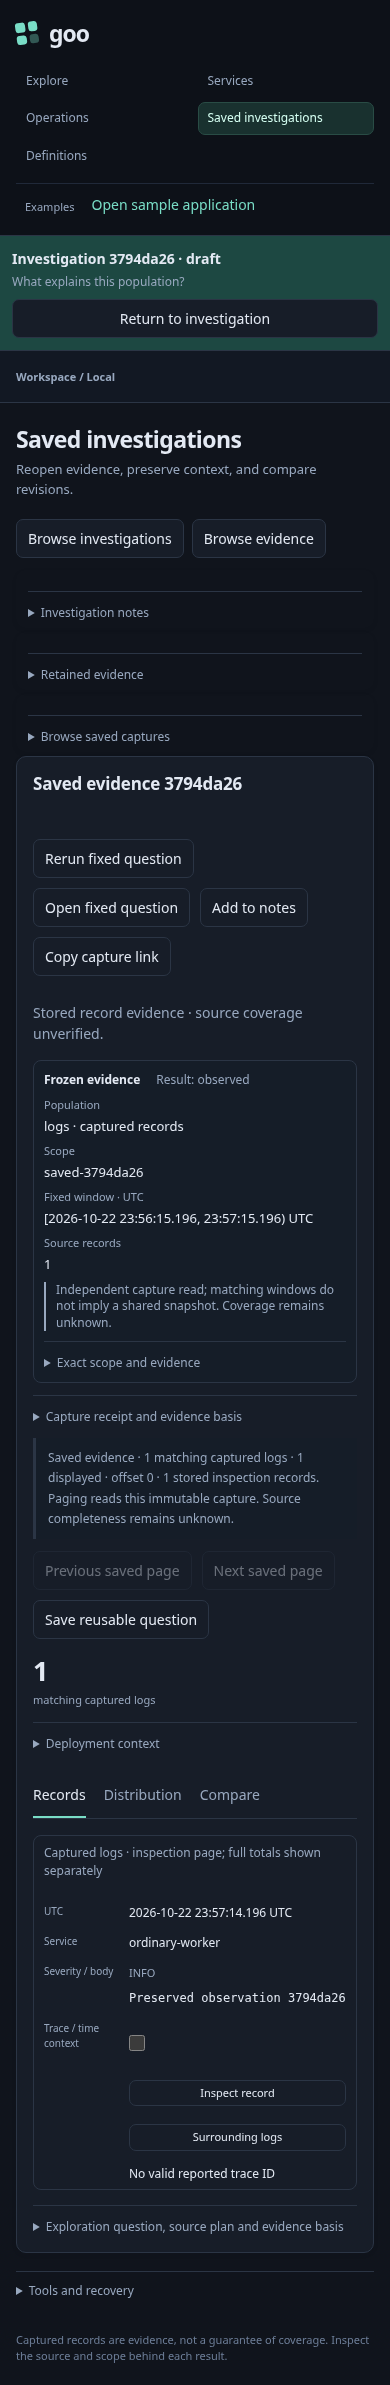
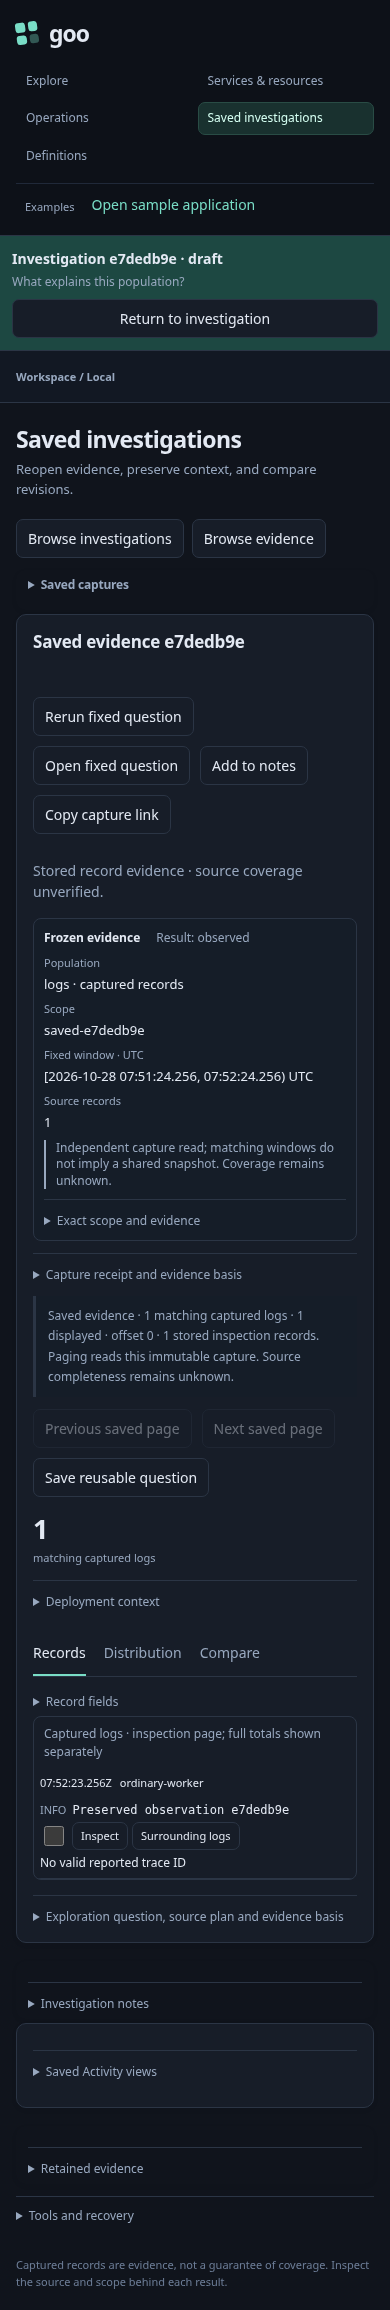
Put compact stored capture rows first in Saved

diff --git a/ui/index.html b/ui/index.html
@@ -11,8 +11,8 @@
 <div class="workspace-panel" data-workspace-panel="services" hidden><div class="resource-tabs" role="tablist" aria-label="Observed entities"><button id="entitiesServices" role="tab" aria-selected="true">Services</button><button id="entitiesHosts" role="tab" aria-selected="false">Hosts</button><button id="entitiesKubernetes" role="tab" aria-selected="false">Kubernetes</button></div><div id="serviceEntityPanel"><section id="serviceInventory"></section></div><section id="hostEntityPanel" hidden></section><section id="kubernetesEntityPanel" hidden></section></div>
 <div class="workspace-panel" data-workspace-panel="operations" hidden><div id="liveEvidenceHost"><section id="operations"><h2>Application operations</h2><p>Choose an application-owned package and compare its declared operations with completed spans. Calls count invocations, including retries; business-subject outcomes need a separate contract.</p><p class="operation-sample-links">Try the <a href="http://localhost:8090">woven Go checkout sample :8090</a>, or the <a href="http://localhost:8091">report generator :8091</a>, then inspect its evidence.</p><label>Operation package<select id="operationPackage"><option value="">Default package</option></select></label><h3 id="operationPackageTitle"></h3><div class="controls"><button id="runOperations">Inspect operations</button><button id="captureSave" title="Recapture the selected fixed window and store its evidence">Save investigation</button></div><p id="operationStatus" role="status"></p><p id="operationMode" class="evidence-note">No operation evidence loaded.</p><div id="operationView"></div><details id="fleetCoverageView" hidden></details><details id="errorRatioView" hidden></details><details id="counterRateView" hidden></details><details id="histogramView" hidden></details><div id="operationExplorer"></div><details><summary>Operation binding and evidence basis</summary><pre id="operationExplain"></pre></details></section>
 </div></div>
-<div class="workspace-panel saved-workspace" data-workspace-panel="investigations" hidden><div class="saved-task-actions controls" aria-label="Saved work"><button data-saved-open="investigations">Browse investigations</button><button data-saved-open="evidence">Browse evidence</button><button id="savedRecoveryNotice" hidden></button></div><section id="investigationDocuments"></section><section id="savedActivityViews"></section><section id="savedRetainedCatalog"></section><section id="captureLibrary"><details id="captureLibraryPanel" open><summary>Browse saved captures</summary><h2>Investigation captures</h2><p>Reopen the same evidence or refresh a fixed question into a new revision.</p><button id="captureCatalogRefresh">Refresh capture list</button><details id="captureIDTools" class="saved-id-tools"><summary>Open a capture by ID</summary><div class="controls"><label>General capture ID<input id="captureGeneralID" size="32"></label><button id="captureGeneralOpen">Open general capture</button></div></details><p id="captureLibraryStatus" role="status">Capture an Explore question or service inventory to preserve its evidence.</p><div id="captureCatalog" class="capture-catalog"></div><div class="controls"><button id="captureCatalogPrevious" disabled>Previous captures</button><button id="captureCatalogNext" disabled>More captures</button></div></details></section><section id="generalCaptureWorkspace" hidden><div class="section-heading"><div><span class="source-tag">Saved evidence</span><h2 id="captureSavedTitle"></h2></div><div class="controls"><button id="captureGeneralRefresh" disabled>Rerun fixed question</button><button id="captureGeneralLive" disabled>Explore fixed question</button><button id="captureGeneralNotes" disabled>Add to notes</button><button id="captureGeneralLink" disabled>Copy capture link</button><button id="captureGeneralParent" hidden>Previous revision</button></div></div><p id="captureSavedStatus" role="status"></p><p id="captureFixedScope" class="muted"></p><details><summary>Capture receipt and evidence basis</summary><pre id="captureGeneralReceipt"></pre></details><div id="captureExploreEvidence" hidden></div><div id="captureInventoryEvidence" hidden></div><div id="captureMeasurementEvidence" hidden></div><div id="captureComparisonEvidence" hidden></div></section>
-<section id="savedRetainedWorkspace"></section><details id="savedTools" class="saved-tools"><summary>Tools and recovery</summary><section id="savedAnnotations"></section><section id="savedRecovery"></section><details id="savedOperationTools"><summary>Open an operation capture by ID</summary><div class="controls"><label>Capture ID<input id="captureID" size="36" aria-label="Capture ID"></label><button id="captureOpen">Reopen saved investigation</button></div><p id="savedOperationOpenStatus" role="status"></p></details></details>
+<div class="workspace-panel saved-workspace" data-workspace-panel="investigations" hidden><div class="saved-task-actions controls" aria-label="Saved work"><button data-saved-open="investigations">Browse investigations</button><button data-saved-open="evidence">Browse evidence</button><button id="savedRecoveryNotice" hidden></button></div><section id="captureLibrary"><details id="captureLibraryPanel" open><summary><h2>Saved captures</h2></summary><div class="capture-catalog-toolbar controls"><button id="captureCatalogRefresh">Refresh capture list</button><p id="captureLibraryStatus" role="status">Capture an Explore question or service inventory to preserve its evidence.</p></div><div id="captureCatalog" class="capture-catalog"></div><div class="controls"><button id="captureCatalogPrevious" disabled>Previous captures</button><button id="captureCatalogNext" disabled>More captures</button></div><details id="captureIDTools" class="saved-id-tools"><summary>Open a capture by ID</summary><div class="controls"><label>General capture ID<input id="captureGeneralID" size="32"></label><button id="captureGeneralOpen">Open general capture</button></div></details></details></section><section id="generalCaptureWorkspace" hidden><div class="section-heading"><div><span class="source-tag">Saved evidence</span><h2 id="captureSavedTitle"></h2></div><div class="controls"><button id="captureGeneralRefresh" disabled>Rerun fixed question</button><button id="captureGeneralLive" disabled>Explore fixed question</button><button id="captureGeneralNotes" disabled>Add to notes</button><button id="captureGeneralLink" disabled>Copy capture link</button><button id="captureGeneralParent" hidden>Previous revision</button></div></div><p id="captureSavedStatus" role="status"></p><p id="captureFixedScope" class="muted"></p><details><summary>Capture receipt and evidence basis</summary><pre id="captureGeneralReceipt"></pre></details><div id="captureExploreEvidence" hidden></div><div id="captureInventoryEvidence" hidden></div><div id="captureMeasurementEvidence" hidden></div><div id="captureComparisonEvidence" hidden></div></section>
+<section id="investigationDocuments"></section><section id="savedActivityViews"></section><section id="savedRetainedCatalog"></section><section id="savedRetainedWorkspace"></section><details id="savedTools" class="saved-tools"><summary>Tools and recovery</summary><section id="savedAnnotations"></section><section id="savedRecovery"></section><details id="savedOperationTools"><summary>Open an operation capture by ID</summary><div class="controls"><label>Capture ID<input id="captureID" size="36" aria-label="Capture ID"></label><button id="captureOpen">Reopen saved investigation</button></div><p id="savedOperationOpenStatus" role="status"></p></details></details>
 <section id="savedInvestigations" hidden><h2>Selected operation capture</h2><p>Open a capture to continue an investigation with the same evidence. Refresh creates a new revision and keeps the original available.</p><div class="controls"><button id="captureRefresh" disabled>Refresh saved evidence</button></div><p id="captureStatus" role="status">Open a capture by ID, or save one from Operations. Captures are stored in this local workspace.</p><details><summary>Saved receipt and component bases</summary><pre id="captureReceipt"></pre></details><details id="captureDiff"><summary>Revision comparison</summary><p id="captureComparisonSummary"></p><pre id="captureComparison"></pre></details></section><section id="savedOperationEvidence" hidden aria-label="Saved operation evidence"><div class="section-heading"><h2 id="saved-operationPackageTitle"></h2><button id="savedOperationLive">Open live Operations</button></div><p id="saved-operationMode" class="evidence-note"></p><p class="muted">Inspect this stored selection without reading telemetry. Live Operations keeps its own package, lookback and selection; opening it does not run a query.</p><div id="saved-operationView"></div><details id="saved-fleetCoverageView" hidden></details><details id="saved-errorRatioView" hidden></details><details id="saved-counterRateView" hidden></details><details id="saved-histogramView" hidden></details><div id="saved-operationExplorer"></div><details><summary>Operation binding and evidence basis</summary><pre id="saved-operationExplain"></pre></details></section></div>
 <div class="workspace-panel" data-workspace-panel="definitions" hidden><section id="telemetryPackages"></section><section><h2>Measurement packages</h2><p>Define gauges, counters, native histograms and lifecycle event bindings in YAML. Preview a source plan, save an immutable revision, and reuse it with a fresh or fixed window.</p><div class="controls"><label>Find a measurement<input id="measurementDefinitionSearch" type="search" placeholder="Name, service, kind or environment"></label><button id="measurementDefinitionRefresh">Refresh packages</button><button id="defineMeasurement">Open measurement workbench</button></div><p id="measurementDefinitionStatus" role="status"></p><div id="measurementDefinitions" class="definition-grid"></div></section><section><h2>Application definitions</h2><p>Shared contracts connect instrumentation, measures, and investigation views.</p><div id="definitionCatalog" class="definition-grid"></div></section><section id="httpPackage"><h2>Bound HTTP package · Go</h2><p>Evaluate observed HTTP server spans using the shared package binding and view descriptor. Sampling and completeness remain unverified.</p><button id="runHttpPackage">Evaluate HTTP package</button><p id="httpPackageStatus" role="status"></p><div id="httpPackageView"></div><details><summary>HTTP package source, revision and diagnostics</summary><pre id="httpPackageExplain"></pre></details></section>
 <details><summary>OTel prebuilt library · capability proposals</summary><p>Versioned contract recognition in Go; most views below are proposals, not installed dashboards. Missing evidence or bindings must be resolved before use.</p><div id="prebuilts"></div></details>

diff --git a/journeys/220-saved-catalog.spec.js b/journeys/220-saved-catalog.spec.js
@@ -1,0 +1,50 @@
+const {test,expect}=require('@playwright/test');
+const {randomBytes}=require('node:crypto');
+const {startBombadil}=require('./support/cross-app');
+const fs=require('node:fs/promises'),path=require('node:path'),os=require('node:os');
+const base='http://127.0.0.1:8088';
+test.use({actionTimeout:15000,navigationTimeout:45000});
+test('220 Saved opens with compact stored rows, exact UTC, unchanged paging and source-free evidence',async({page,request})=>{
+ let response=await request.get(base+'/api/captures');expect(response.ok()).toBe(true);let catalog=await response.json();
+ if(!catalog.items.length){
+  const toMs=Date.now();const created=await request.post(base+'/api/captures',{data:{title:'Saved catalog fixture',question:{kind:'explore',explore:{signal:'logs',environment:'saved-catalog-'+randomBytes(4).toString('hex'),fromMs:toMs-60000,toMs,limit:10,offset:0}}}});expect(created.status()).toBe(201);
+  catalog=await(await request.get(base+'/api/captures')).json();
+ }
+ let selected,original;
+ for(const receipt of catalog.items){const r=await request.get(base+'/api/captures/'+receipt.id);if(r.ok()){selected=receipt;original=await r.json();break}}
+ expect(selected,'a valid stored receipt is available').toBeTruthy();
+ const source=[],errors=[];page.on('pageerror',e=>errors.push(e.message));page.on('request',r=>{const path=new URL(r.url()).pathname;if(['/api/tail','/api/explore','/api/measurements','/api/inventory','/api/discovery','/api/query','/api/operations','/api/counter-rates','/api/histograms','/api/http-package'].includes(path))source.push(path)});
+ await page.goto(base+'/#investigations');const rows=page.locator('#captureCatalog tbody>tr');await expect(rows).toHaveCount(catalog.items.length);
+ expect(await rows.evaluateAll(nodes=>nodes.map(n=>n.dataset.captureId))).toEqual(catalog.items.map(r=>r.id));
+ expect((await rows.first().boundingBox()).y).toBeLessThan(400);
+ const row=page.locator('#captureCatalog tr[data-capture-id="'+selected.id+'"]');const time=row.locator('time');
+ await expect(time).toHaveAttribute('datetime',selected.capturedAt);await expect(time).toHaveAttribute('title','Captured at '+selected.capturedAt);await expect(time).toContainText('UTC');
+ await time.focus();await expect(time).toBeFocused();
+ await page.screenshot({path:'docs/journeys/screenshots/220a-saved-catalog-desktop.png',fullPage:false});
+ const open=page.waitForResponse(r=>new URL(r.url()).pathname==='/api/captures/'+selected.id);
+ await row.getByRole('button').focus();await page.keyboard.press('Enter');expect((await open).status()).toBe(200);
+ await expect(page.locator('#captureSavedTitle')).toHaveText(selected.title);expect(source).toEqual([]);
+ const receipt=await page.locator('#captureGeneralReceipt').textContent();
+ await page.getByRole('button',{name:'Browse evidence',exact:true}).click();
+ if(catalog.hasMore){
+  const next=page.waitForResponse(r=>new URL(r.url()).pathname==='/api/captures'&&new URL(r.url()).searchParams.has('cursor'));
+  await page.locator('#captureCatalogNext').click();const second=await(await next).json();
+  await expect(rows).toHaveCount(second.items.length);expect(await rows.evaluateAll(nodes=>nodes.map(n=>n.dataset.captureId))).toEqual(second.items.map(r=>r.id));
+  const previous=page.waitForResponse(r=>new URL(r.url()).pathname==='/api/captures'&&!new URL(r.url()).search);
+  await page.locator('#captureCatalogPrevious').click();await previous;await expect(rows).toHaveCount(catalog.items.length);
+  expect(await rows.evaluateAll(nodes=>nodes.map(n=>n.dataset.captureId))).toEqual(catalog.items.map(r=>r.id));
+ }
+ expect(await page.locator('#captureGeneralReceipt').textContent()).toBe(receipt);expect(source).toEqual([]);
+ expect((await(await request.get(base+'/api/captures/'+selected.id)).json()).receipt).toEqual(original.receipt);
+ await page.goto(base+'/#investigations');await expect(rows).toHaveCount(catalog.items.length);
+ for(const width of [320,390,700,701]){await page.setViewportSize({width,height:844});expect(await page.evaluate(()=>document.documentElement.scrollWidth<=innerWidth)).toBe(true)}
+ await page.setViewportSize({width:390,height:844});await page.locator('.saved-workspace').screenshot({path:'docs/journeys/screenshots/220b-saved-catalog-mobile.png'});
+ await page.locator('#captureIDTools>summary').click();await expect(page.locator('#captureGeneralID')).toBeVisible();expect(source).toEqual([]);expect(errors).toEqual([]);
+});
+
+test('220 Bombadil browses stored rows and recovery tools without source reads',async()=>{
+ test.skip(process.env.GOO_SAVED_CATALOG_BOMBADIL!=='1','Opt-in bounded stored-page campaign');
+ const dir=await fs.mkdtemp(path.join(os.tmpdir(),'goo-saved-catalog-'));
+ const actor=await startBombadil({dir:path.join(dir,'bombadil'),url:base+'/#investigations',specification:'verification/bombadil/saved-catalog.ts',seconds:20,width:390,height:844});
+ let passed=false;try{await actor.finish();passed=true}finally{await actor.stop();if(passed)await fs.rm(dir,{recursive:true,force:true})}
+});

diff --git a/ui/product.css b/ui/product.css
@@ -891,7 +891,9 @@ td details {
  .inventory-table button{min-height:40px}
 }
 
-.capture-catalog{display:grid;grid-template-columns:repeat(auto-fit,minmax(240px,1fr));gap:10px;margin:14px 0}.capture-card{background:var(--surface-raised);border:1px solid var(--border);border-radius:9px;padding:13px}.capture-card button{font-weight:600;text-align:left;overflow-wrap:anywhere;max-width:100%}.capture-card p{font-size:12px;margin:8px 0 0}.capture-catalog:empty{display:none}#generalCaptureWorkspace>details{margin:12px 0}#captureDialog{color:var(--ink);background:var(--surface);border:1px solid var(--border);border-radius:12px;width:min(560px,90vw);padding:24px}#captureDialog::backdrop{background:#070b12b8}#captureDialog label{display:grid;gap:6px}#captureDialog input{width:100%}#generalCaptureWorkspace>.section-heading{align-items:flex-start;flex-wrap:wrap}#generalCaptureWorkspace>.section-heading .controls{flex-wrap:wrap}#captureGeneralReceipt{max-height:300px;overflow:auto}
+.capture-catalog{margin:10px 0}.capture-catalog>goo-table{max-height:420px}.capture-catalog>goo-table>table{table-layout:fixed}.capture-catalog th[data-capture-col=title]{width:46%}.capture-catalog th[data-capture-col=kind]{width:22%}.capture-catalog td{font-size:12px;overflow-wrap:anywhere}.capture-catalog td>button{max-width:100%;text-align:left;overflow-wrap:anywhere;padding:4px 6px;font-size:12px}.capture-catalog time{font-size:12px;overflow-wrap:anywhere}.saved-workspace #captureLibraryPanel>summary>h2{display:inline;font:inherit;font-weight:600;margin:0}.saved-workspace #captureLibraryPanel>summary{margin-bottom:10px}.saved-workspace #captureLibraryPanel{border:0;margin:0;padding:0}.capture-catalog-toolbar{align-items:center;margin:8px 0}.capture-catalog-toolbar>p{margin:0;font-size:12px;color:var(--muted)}
+@media(max-width:700px){.capture-catalog>goo-table>table{display:block}.capture-catalog table>caption{display:block}.capture-catalog table>thead{position:absolute;width:1px;height:1px;overflow:hidden;clip-path:inset(50%)}.capture-catalog table>tbody{display:block}.capture-catalog table>tbody>tr{display:grid;grid-template-columns:minmax(0,1fr) minmax(0,2fr);gap:3px 8px;padding:8px;border-bottom:1px solid var(--border)}.capture-catalog table>tbody>tr>td{display:block;padding:0;border:0;min-width:0}.capture-catalog td[data-capture-col=title]{grid-column:1/-1}.capture-catalog td[data-capture-col=at]{text-align:right}.capture-catalog td>button{min-height:28px}.capture-catalog time{font-size:11px}}
+.capture-card{background:var(--surface-raised);border:1px solid var(--border);border-radius:9px;padding:13px}.capture-card button{font-weight:600;text-align:left;overflow-wrap:anywhere;max-width:100%}.capture-card p{font-size:12px;margin:8px 0 0}.capture-catalog:empty{display:none}#generalCaptureWorkspace>details{margin:12px 0}#captureDialog{color:var(--ink);background:var(--surface);border:1px solid var(--border);border-radius:12px;width:min(560px,90vw);padding:24px}#captureDialog::backdrop{background:#070b12b8}#captureDialog label{display:grid;gap:6px}#captureDialog input{width:100%}#generalCaptureWorkspace>.section-heading{align-items:flex-start;flex-wrap:wrap}#generalCaptureWorkspace>.section-heading .controls{flex-wrap:wrap}#captureGeneralReceipt{max-height:300px;overflow:auto}
 
 .span-summary-control {display:flex;align-items:center;gap:.6rem;grid-column:1/-1;flex-direction:row;}
 .span-summary-control input {width:auto;}

diff --git a/verification/bombadil/saved-catalog.ts b/verification/bombadil/saved-catalog.ts
@@ -1,0 +1,30 @@
+// Stored-page navigation only; never recaptures, refreshes telemetry or writes.
+import {always,eventually} from '@antithesishq/bombadil';
+import {extract,actions,registerCustomAction} from '@antithesishq/bombadil/browser';
+export {noUncaughtExceptions,noUnhandledPromiseRejections} from '@antithesishq/bombadil/browser/defaults/properties';
+const state=extract(({document,window})=>({
+ stage:Number(document.documentElement.dataset.savedCatalogStage||0),
+ rows:document.querySelectorAll('#captureCatalog tbody>tr').length,
+ selected:!!document.querySelector('#generalCaptureWorkspace:not([hidden])'),
+ failed:document.querySelector('#captureSavedStatus')?.textContent?.startsWith('Capture unavailable')||false,
+ overflow:document.documentElement.scrollWidth>window.innerWidth,
+ source:window.performance.getEntriesByType('resource').filter(e=>/^\/api\/(?:tail|explore|query|measurements|inventory|discovery|operations|counter-rates|histograms|http-package)$/.test(new URL(e.name).pathname)).length,
+ typed:[...document.querySelectorAll('#captureCatalog tbody>tr')].every(row=>/^[a-f0-9]{64}$/.test((row as HTMLElement).dataset.captureId||'')&&row.querySelectorAll('td').length===3&&!!row.querySelector('[data-capture-col=kind]')?.textContent),
+ clocks:[...document.querySelectorAll<HTMLTimeElement>('#captureCatalog time')].every(e=>e.textContent?.includes('UTC')&&Number.isFinite(Date.parse(e.dateTime))&&e.title==='Captured at '+e.dateTime),
+}));
+export const storedOnly=always(()=>state.current.source===0);
+export const compactTypedRows=always(()=>!state.current.overflow&&state.current.typed&&state.current.clocks);
+export const completes=eventually(()=>state.current.stage===7).within(20,'seconds');
+const act=registerCustomAction('goo.savedCatalog',async(document,_window,step:number)=>{
+ if(step===1)document.querySelector<HTMLButtonElement>('#captureCatalog tbody>tr button')!.click();
+ if(step===2)document.querySelector<HTMLButtonElement>('[data-saved-open=evidence]')!.click();
+ if(step===3)document.querySelector<HTMLElement>('#captureIDTools>summary')!.click();
+ if(step===4)document.querySelector<HTMLInputElement>('#captureGeneralID')!.focus();
+ if(step===5)document.querySelector<HTMLElement>('#captureIDTools>summary')!.click();
+ if(step===6)document.querySelector<HTMLElement>('#captureLibraryPanel>summary')!.click();
+ if(step===7)document.querySelector<HTMLElement>('#captureLibraryPanel>summary')!.click();
+ document.documentElement.dataset.savedCatalogStage=String(step);
+});
+export const choices=actions(()=>{
+ const s=state.current;if(!s.rows)return ['Wait'];if(s.stage===1&&!s.selected&&!s.failed)return ['Wait'];return s.stage<7?[act(s.stage+1)]:['Wait'];
+});

diff --git a/docs/ROADMAP_2026_10_28.md b/docs/ROADMAP_2026_10_28.md
@@ -32,14 +32,17 @@ support, complete service health or a replacement for ClickStack ingestion.
 | R1 — delivered (217) | Stop legacy operation/HTTP source work when its owner is left, superseded or changed. Extend the existing decoded JSON transport to admitted GETs; preserve sequential package/revision checks and saved publication. | Real delayed response/body after workspace change starts no hidden rates/histogram reads and renders no late data. Query cancellation reaches its matching ID, capacity releases, retries work, and normal operation/native results still render. Add regression tests and the relevant Bombadil action/invariant. |
 | R2 — delivered (218) | Reduce repeated severity/message/action rows through shared record-summary/table styles and semantics. Apply to real compact live/fixed contexts without hiding necessary actions or exact time/details. | Desktop/mobile real-data frames; short rows materially denser; long values inspectable; keyboard/touch actions and narrow layout work. Shared component tests and live interaction/Bombadil checks stay current. No source/saved-result change. |
 | R3 — delivered first slice (219) | Remove duplicate configuration/catalog reads and unnecessary hidden-surface work demonstrated by a before/after request/DOM profile. Start with one catalog owner pair; keep explicit refresh and invalidation. | Fewer duplicate requests without suppressing required refresh, changing query scope or breaking direct links. Compare the same local task; make only measured claims. No mandatory bundler/framework or generic global data cache. |
-| R4 — next: Saved and Definitions entrance | Simplify stacked entrance controls and improve kind/scope/origin discovery using the existing catalog/list primitives. | Recent/useful items appear early; search/filter/pagination and source-free reopen remain exact. Similar titles do not merge different identities. Preserve drafts, publication retries and all saved volumes. |
+| R4 — Saved slice delivered (220); Definitions next | Simplify stacked entrance controls and improve kind/scope/origin discovery using the existing catalog/list primitives. | Stored items appear early in established store order; search/filter/pagination and source-free reopen remain exact. Similar titles do not merge different identities. Preserve drafts, publication retries and all saved volumes. |
 | R5 — operational question clarity | Unify scope/window/return presentation between Activity, service/resource defaults and supporting records. Add an optional query-cost/failure inspector only with actual source diagnostics. | One end-to-end service/resource investigation preserves selected identity, unit, fixed/rolling window and return state; empty, refused, stale and unknown states remain distinct. Never infer health or cost from output size alone. |
 | L1 — finite library follow-up | Clarify prepared `measurement` versus native `measurements`; replace/remove unchecked hashes only after mapping real definition/reference consumers. Finish justified metadata simplification without a store rewrite. | Ordinary external consumer example for each retained package; checked concrete revision APIs where needed; preserved or explicitly migrated real saved identifiers; no permanent alias scaffolding or unused receipt machinery. |
 | G1 follow-up — enabling | Reproducible opt-in nested verification and a thin clean-lab task, including the new runtime/binding path. | Pinned tooling/sibling requirements; required checks fail rather than silently skip; optional XTDB stays separate. Root fast Go/Node/API gates remain useful and proportionate. |
 
 ## Review gate
 
-After R1–R3, review the complete Activity → service/resource → detail → saved or
+The R1–R3 gate was reviewed after 219: ownership, density and startup counts
+improved without a new source model. Saved remains the next visible cohesion gap;
+its first capture-table slice is delivered in 220, with Definitions family discovery
+and shared mobile chrome still open. Continue to review the complete Activity → service/resource → detail → saved or
 reused question task again, including mobile, keyboard and delayed/source failure.
 Reorder later items if the actual product evidence warrants it. Each implementation
 cut gets a source/test/diff review, concise validation, cleanup, commit and push.

diff --git a/journeys/220-saved-catalog-storyboard.md b/journeys/220-saved-catalog-storyboard.md
@@ -1,0 +1,38 @@
+# 220 — Find stored evidence before opening tools
+
+Saved now puts its capture list before secondary notes/view/retention disclosures.
+One heading and a small refresh/status row lead into the existing `goo-table`
+primitive. Titles, kinds and capture times are comparable rows; manual ID recovery
+stays available below the list. The store's existing order is preserved: this is
+not a new recent-first sort or a cross-store search.
+
+| User journey | Executable expectation |
+| --- | --- |
+| Enter Saved directly | Stored rows load without an extra navigation or refresh click; the first row is above 400px at the checked desktop size. |
+| Scan capture kind/time | Human-readable UTC is shown; focusable time metadata preserves the exact original capture timestamp in its tooltip and datetime attribute. |
+| Press Enter on a title | The same immutable capture opens without querying telemetry. |
+| Browse more/previous captures | Row IDs/order match the server page and the selected capture stays unchanged. |
+| Open manual ID tools | Existing IDs, handlers and recovery behavior remain available. |
+| Switch to investigation notes and back | The existing 117 journey preserves its authored draft and pending-save/recovery behavior. |
+| Use a narrow viewport | 320/390/700/701px layouts keep typed metadata within the page and retain keyboard/touch actions. |
+
+Run:
+
+```sh
+GOO_SAVED_CATALOG_BOMBADIL=1 npx playwright test journeys/220-saved-catalog.spec.js journeys/saved-workspace.spec.js --reporter=line
+```
+
+The new stored-page Bombadil actor opens a receipt, returns to the catalog,
+focuses manual recovery, and closes/reopens the list. It rejects telemetry reads,
+page overflow, malformed typed rows, broken UTC metadata and uncaught exceptions.
+The catalog test uses existing valid stored work; an empty clean lab receives one
+explicit empty-result fixture before the source-free browser checks.
+
+![Saved capture table](../docs/journeys/screenshots/220a-saved-catalog-desktop.png)
+
+![Narrow stored-row layout](../docs/journeys/screenshots/220b-saved-catalog-mobile.png)
+
+The existing store cursor, publication/retry, selected evidence and authored drafts
+remain with their owners. No receipts, revisions or saved files are deleted or
+merged. The shared `.capture-card` styling remains for the separate retry-recovery
+surface. Definitions family discovery and whole-app mobile chrome remain follow-ons.

diff --git a/VALIDATION.md b/VALIDATION.md
@@ -1,5 +1,28 @@
 # Validation record
 
+## Data-first Saved capture catalog — 220 (2026-10-28 UTC)
+
+Saved now places its capture catalog before secondary disclosures, with one
+heading and compact refresh/status. Native `goo-table` rows show title, kind and
+readable captured UTC; exact clock strings remain in focusable metadata. Manual
+ID tools stay below the list. Direct Saved entry loads its first stored page.
+Stored order/cursors, publication/retry and selected evidence/drafts are unchanged;
+there is no recent-first sorting, data deletion or universal store.
+
+Validation: all 583 frontend tests pass. Real Chromium 220 checks pass for direct
+entry, server-page ID/order equality, exact clock metadata, keyboard opening,
+source-free inspection, immutable receipt identity, next/previous pages and
+320/390/700/701px page bounds. Existing 117 draft/pending-recovery/error journeys
+pass. The new bounded Saved Bombadil actor passes typed-row/clock, no-source,
+overflow and uncaught-error invariants through stored opening and recovery/list
+navigation. Current 220 and affected 117 documentation frames are regenerated.
+The first stored row is above 400px at the checked desktop viewport.
+
+The post-R1–R3 review keeps Definitions family discovery and shared mobile chrome
+as the next cohesion work. Architecture/store semantics, API schemas and Go code
+are unchanged; no new Go/Hegel/Quint campaign was needed for this composition cut.
+Only disposable owned review/test outputs are removed; all saved lab volumes remain.
+
 ## Workspace-owned declaration startup — 219 (2026-10-28 UTC)
 
 Optional Examples galleries/workflows now mount on first visit and share one

diff --git a/docs/WHOLE_PRODUCT_REVIEW_2026_10_28.md b/docs/WHOLE_PRODUCT_REVIEW_2026_10_28.md
@@ -96,3 +96,20 @@ startup-work reduction, using one real Activity → service/resource → record/
 → saved/reusable question journey. Check mobile and keyboard flows, request counts,
 late/aborted responses and an unavailable source. That is a better next review
 point than another long sequence of tiny specialized capabilities.
+
+## Follow-up at the R1–R3 gate
+
+R1 (217) removes the reproduced hidden operation follow-on reads; R2 (218) gives
+short ordinary-OTel rows one scan line while preserving full inspection; R3 (219)
+reduces measured startup requests from 14 to 7 without changing the live stream or
+module count. Direct workspace links, explicit refresh, isolated generic startup,
+keyboard/mobile display checks and bounded Bombadil/observed-entry checks pass.
+
+This supports continuing with Saved/Definitions cohesion rather than introducing
+another backend or chart family. The 220 Saved slice puts typed capture rows first,
+preserving store order and independent drafts/publication. Definitions still has
+separate record/native/application families stacked in one long entrance; making
+those families easier to choose is the next bounded opportunity. Mobile navigation
+outside Activity still consumes substantial vertical space and deserves a shared
+chrome pass, not another Saved-only menu. No new vendor/latency/load claim is made
+by this follow-up; the external research and its limits above remain the basis.

diff --git a/docs/SAVED_WORKSPACE.md b/docs/SAVED_WORKSPACE.md
@@ -78,3 +78,14 @@ A cohesive read-only case outline, global search across stores, durable drafts,
 collaboration and a normalized investigation/evidence storage model are not
 implemented by this presentation cut. Wider grouping of context within a selected
 case should build on these owners and explicit references, not replace them.
+
+## Data-first capture catalog (220)
+
+The capture catalog now precedes secondary notes/views/retention disclosures and
+uses the passive table primitive for title, kind and captured UTC. One heading and
+inline refresh/status replace repeated introductory controls. Manual ID recovery
+moves below the rows without changing its IDs or behavior. Direct `#investigations`
+entry loads the stored page; exact capture links still open their own evidence.
+Stored order and cursor behavior are unchanged, with no recent-first sorting claim.
+Selected evidence and investigation drafts retain their independent owners.
+See [the storyboard and current frames](../journeys/220-saved-catalog-storyboard.md).

diff --git a/docs/UI_COMPONENTS.md b/docs/UI_COMPONENTS.md
@@ -1261,3 +1261,12 @@ identity. `GooAttributes.mountStream(container,stream,options)` now accepts the
 existing viewer options, preserving default raw inspection and naming native metric
 attributes correctly. Other callers retain noncompact defaults. Family controls
 hide only complete single choices and standardize Refresh after attempts.
+
+## Stored capture table adoption (220)
+
+The capture catalog now reuses `goo-table` with native title/kind/time cells,
+sticky headers and application-owned open/paging actions. Narrow catalog layout
+is scoped to `.capture-catalog` in product CSS; the display primitive owns no
+store/client. Focusable UTC metadata retains the exact stored capture clock.
+Retry-recovery cards remain a separate consumer of their existing card style.
+See [the real stored-page journey](../journeys/220-saved-catalog-storyboard.md).

diff --git a/docs/KNOWN_ISSUES.md b/docs/KNOWN_ISSUES.md
@@ -34,6 +34,10 @@ Examples galleries/workflows and legacy Definitions/Operations catalogs now load
 on first workspace use. Local startup requests fell from 14 to 7 in the checked
 lab recording; 136 modules still load, and two retention-status requests remain.
 This is not a latency/load benchmark or complete startup-work optimization.
+Saved now presents a compact typed capture table before secondary tools, with
+exact capture-clock tooltips and existing stored order/paging. This is not a
+recent-first sort or cross-store search. Definitions family discovery and shared
+mobile chrome remain separate cohesion work.
 Browser conformance is currently checked in Chromium; Firefox/Safari coverage
 is not established.
 

diff --git a/docs/BOMBADIL_TESTING.md b/docs/BOMBADIL_TESTING.md
@@ -567,3 +567,10 @@ adds real log/span geometry, full-text and touch/keyboard checks.
 uses the workspace actor's first Definitions/Examples visits and catalog-load
 invariant. Returning must not reload one-time declaration catalogs. Explicit
 refresh is separately tested; this is not a global cache invariant.
+
+## Stored capture catalog (220)
+
+`GOO_SAVED_CATALOG_BOMBADIL=1 npx playwright test journeys/220-saved-catalog.spec.js --reporter=line`
+uses the new `saved-catalog.ts` actor. It opens stored evidence and recovery tools,
+then collapses/reopens the catalog; invariants retain typed IDs/UTC, no telemetry
+read, no page overflow and no uncaught errors. No recapture or save action is offered.
